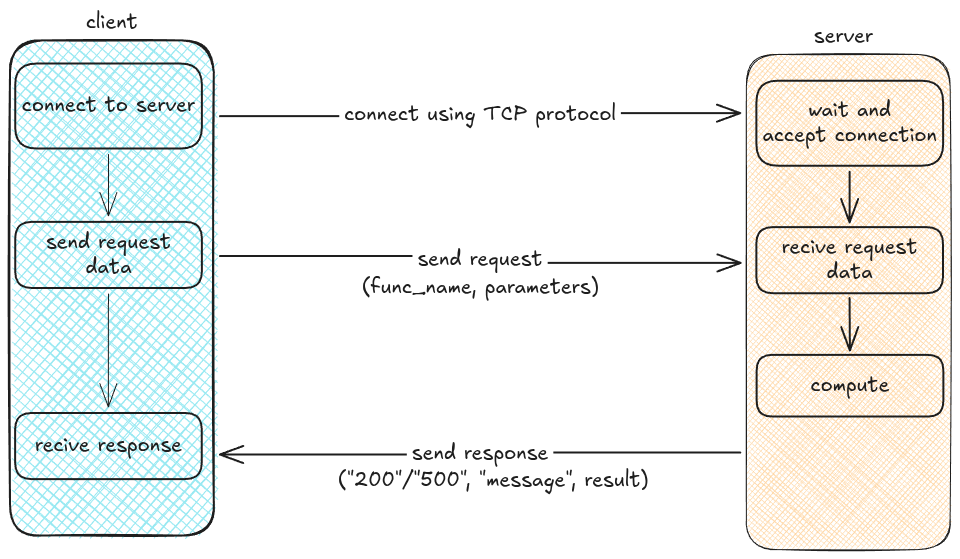
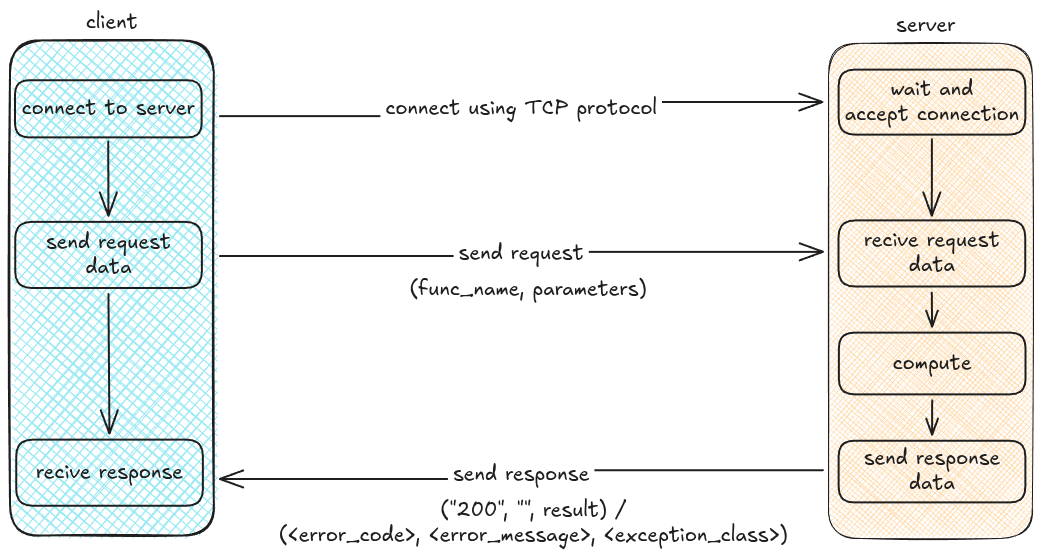
chore: adjusts in 'The SRPC Protocol' section

Changed region(s): [[0.0, 0.0305, 1.0, 1.0]]

diff --git a/docs/tech-documentation/tech-doc-v0.0.0.md b/docs/tech-documentation/tech-doc-v0.0.0.md
@@ -11,6 +11,8 @@
     - [2.2 Logical Architecture Diagram](#22-logical-architecture-diagram)
   - [3. The SRPC Protocol](#3-the-srpc-protocol)
     - [3.1 Wire Protocol](#31-wire-protocol)
+      - [3.1.1 Server response types](#311-server-response-types)
+      - [3.1.2 Protocol diagram](#312-protocol-diagram)
   - [4. Core Compoentes(The Internals)](#4-core-compoentesthe-internals)
     - [4.1 The Serializer](#41-the-serializer)
     - [4.2 Binders(Transport Layer)](#42-binderstransport-layer)
@@ -77,6 +79,7 @@ A valid service(in server side) consists of:
    - The packge directory containing these files must match the package name(all lowercase) exactly (e.g., calc/).
 
 Look the example below, <em>calc</em> is my service name.
+
 **Server Directory Structure**
 ```
 project/
@@ -92,8 +95,6 @@ project/
 ```
 **Essentialy a SRPC service is an interface**
 
-> [!WARNING]
-> Maybe this perspective for client side too??
 ### 2.2 Logical Architecture Diagram
 ![logical architecture diagram.png](../images/logical_architecture_diagram.png)
 
@@ -106,11 +107,11 @@ Here I describe how SRPC uses the TCP protocol to exchange messages between the 
 >
 > SRPC serializes Python strings and tuples into bytes before transmitting them over the network.
 
-In the server side, there is a listner for each registered procedure. Each listner one waits for incomming client connections using ``` accept() ``` method  from [Python's socket module (the low-level networking interface)](https://docs.python.org/3/library/socket.html).  \
+In the server side, there is a listner for each registered procedure. Each listner one waits for incomming client connections using ``` accept() ``` method  from [Python's socket module (the low-level networking interface)](https://docs.python.org/3/library/socket.html).
 
 When a client connects, ```accepts()``` return a new socket dedicated to that connection. The server then calls ```recv(1024)``` on this socket to receive the client's request.
 
-The server expects the request to be a tuple in the following format:  \ ```(func_name, parameters)```
+The server expects the request to be a tuple in the following format: ```(func_name, parameters)```
 
 where:
 -  ```func_name``` is the procedure of the procedure to invoke.
@@ -128,25 +129,29 @@ where:
 If the call fails, it returns a tuple int the following format :  \
 ```(<error_code>, <error_message>, <exception_class>)```
 
-
-check the below table:
-
-| error code | error message        | exception class |
-|:----------------------------------|:-------------: |---------------:|
-|"404"       | "The program cannot support the requested procedure"| "SrpcProcUnvailException"|
-|"500"       | ```str(exception)``` | ```type(exception).__name__``` |
-
-
 The response is serialized and sent to the client using the ```sendall(...)``` method from Python's socket module.
 
 The value ```1024``` passed to ```recv(1024)``` is a convenient buffer size.
 
-> [!CAUTION]
+> [!WARNING]
 > recv(1024) does not means "Receive the whole message, up to 1024 bytes."
 > it means "Receive at most 1024 bytes that are currently available."
 
+#### 3.1.1 Server response types
 
-**Look the below diagram**
+**Error**
+
+| error code | error message        | exception class |
+|:----------------------------------|:-------------:|---------------:|
+|"404"       | "The program cannot support the requested procedure"| "SrpcProcUnvailException"|
+|"500"       | ```str(exception)``` | ```type(exception).__name__``` |
+
+**Sucess**
+| response code | message        | result |
+|:-------------------------------|:-------------:|---------------:|
+|"200"          | ""             | is the rutn value of the procedure|
+
+#### 3.1.2 Protocol diagram
 ![srpc wire protocol](../images/srpc_wire_protocol.png)
 
 ## 4. Core Compoentes(The Internals)
@@ -163,7 +168,12 @@ And I can change how do I serialize/deserialize only refatoring the fallowing fi
 - ```srpc_serializer_interface.py```
 - ```srcp_serializer.py```
 
+> [!NOTE]
+> Among other factors, the use of a Python-specific serialization mechanism limits the library's portability,
+> as it prevents straightforward interoperability with implementations in other programming languages.
+
 ### 4.2 Binders(Transport Layer)
+First of all what is a binder?
 #### 4.2.1 Server Binder
 In SRPC a Server Binder is an object that have ```start_binder``` and ```stop``` methods, this is defined in  \
 ```SrpcServerBinderInterface(srpc_server_binder_interface.py)``` interface.
